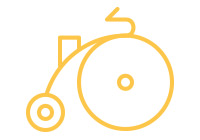
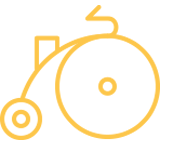
Desenho das bicicletas adicionado.

Changed region(s): [[0.0, 0.0286, 0.9302, 0.9714], [0.5523, 0.5143, 0.6977, 0.6857]]

diff --git a/css/style.css b/css/style.css
@@ -28,6 +28,26 @@ p{
     font-weight: bold;
     letter-spacing: .1em;
 }
+.subtitulo{
+    font-size: 24px;
+    line-height: 30px;
+    font-weight: bold;
+    letter-spacing: .1em;
+    color: #000;
+    text-transform: uppercase;
+    text-align: center;
+    margin-bottom: 40px;
+    margin-top: 30px;
+}
+
+.subtitulo:after{
+    content: "";
+    display: block;
+    width: 60px;
+    height: 3px;
+    background: #000;
+    margin: 10px auto 10px auto;
+}
 /*header_menu*/
 .header {
     position: fixed;
@@ -35,6 +55,7 @@ p{
     width: 100%;
     background-color: #fec63e;
     padding: 15px 0;
+    z-index: 1;
 }
 
 .header_menu{
@@ -90,6 +111,7 @@ p{
 .quote-externo p{
     font-style: italic;
 }
+/*Linha estilizada de produtos*/
 .quote-externo p::before, .quote-externo p::after{
     content: "";
     display: block;
@@ -106,6 +128,36 @@ p{
     letter-spacing: .1em;
 }
 
-.introducao .btn{
+.produtos{
+    padding: 60px 0;
+}
 
+.produtos_lista li{
+    background: #fec63e;
+    text-align: center;
+}
+
+.produtos_lista li h3{
+    font-weight: bold;
+    font-size: 18px;
+    line-height: 25px;
+    text-transform: uppercase;
+    letter-spacing: .1em;
+}
+
+.produtos_lista li h3:after{
+    content: "";
+    display: block;
+    width: 60px;
+    height: 3px;
+    background: #000;
+    margin: 2px auto;
+}
+
+.produtos_lista li p{
+    padding: 10px 20px 20px 20px;
+}
+.produtos_icone{
+    background: #000;
+    padding: 25px;
 }

diff --git a/index.html b/index.html
@@ -34,6 +34,35 @@
                 <a href="produtos.html" class="btn">Orçamento</a>
             </div>
         </section>
+        <section class="container produtos">
+            <h2 class="subtitulo">Produtos</h2>
+            <ul class="produtos_lista">
+                <li class="grid-1-3">
+                    <div class="produtos_icone">
+                        <img src="img/produtos/passeio.png">
+                    </div>
+                    <h3>Passeio</h3>
+                    <p>Ainda há a necessidade de inovação aqui no Brasil.</p>
+                </li>
+                <li class="grid-1-3">
+                    <div class="produtos_icone">
+                        <img src="img/produtos/esporte.png">
+                    </div>
+                    <h3>Esporte</h3>
+                    <p>Ainda há a necessidade de inovação aqui no Brasil.</p>
+                </li>
+                <li class="grid-1-3">
+                    <div class="produtos_icone">
+                        <img src="img/produtos/retro.png">
+                    </div>
+                    <h3>Retro</h3>
+                    <p>Ainda há a necessidade de inovação aqui no Brasil.</p>
+                </li>  
+            </ul>
+            <div class="call">
+
+            </div>
+        </section>
     
     </body>
 </html>
